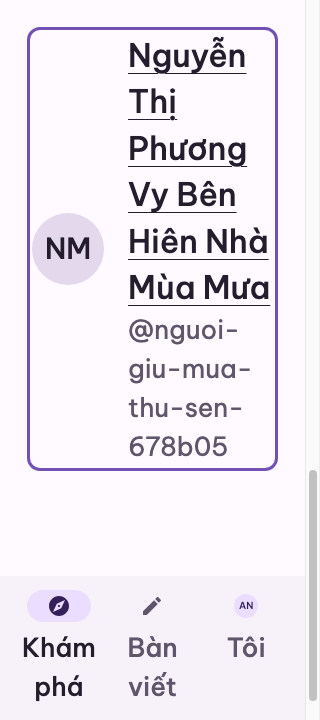
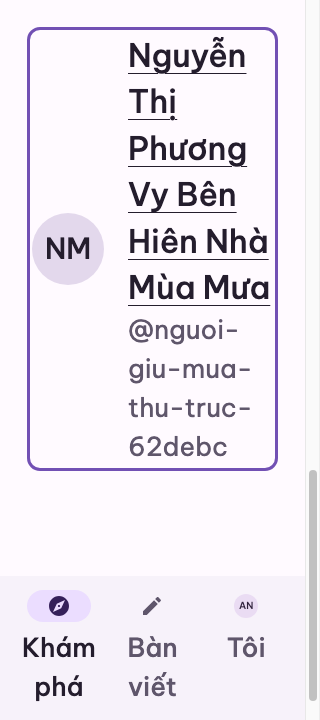
docs(feed): lưu bằng chứng Back sau review
Ghi SHA đã chạy Quick, PostgreSQL full và hai scenario Chrome.
Đính kèm ảnh bút danh dài giữ focus phía trên thanh điều hướng.

Refs: #355

Changed region(s): [[0.4688, 0.55, 0.7812, 0.6417], [0.75, 0.825, 0.7812, 0.8556]]

diff --git a/docs/development/evidence/following-feed-355/README.md b/docs/development/evidence/following-feed-355/README.md
@@ -40,3 +40,21 @@ trên macOS arm64, DPR 1, viewport cao 900 CSS px, App và Identity thật với
 - PASS sau sửa với cargo xtask verify web --scenario password --scenario return-position,
   lượt 1795242508473992000-61815. 19 PNG Feed và manifest. Lượt return-position công khai là đối chứng.
 - Log local, PNG gốc và manifest giữ ở thư mục /private/tmp/vink-355-evidence.OcqmKp0a.
+
+## Bản vá sau review #374
+
+Mã và fixture kiểm tại `1c605cdcb8eb8f4c1cfccb420034bb015d0810a2`, trên cây có `develop@9f68c513b5dae224b6a9f896d04bc9d1d035e1b8`.
+Chrome 158.0.8127.36, PostgreSQL 17.11 scratch, App và Identity thật. Lượt Chrome `1795249910005940000-86397`.
+Hai tab dùng cookie thật qua một lượt A → B → A để giữ nguyên trần đăng nhập của scenario.
+
+| Nghiệm thu và chiều | Kết quả |
+| --- | --- |
+| AC-01 · Functional | PASS. WorkId, ngày công khai lần đầu, thứ tự sau tái đăng, thẻ thể loại và khoảng ngắt thơ được so với fixture PostgreSQL. Smoke byline có đích nhan đề và bút danh độc lập ngay cả khi hai tác giả cùng tên. |
+| AC-02 · Functional | PASS. Khách có đường về Feed, hai trạng thái rỗng có dữ liệu thật, Follow từ kết quả tìm tác giả chưa có bài và mất ACK vẫn đối soát được. Có ca hết phiên, lỗi ở lượt đầu, lỗi append và thử lại. |
+| AC-03 · Interaction | PASS. Back qua document mới sau khi giữ WASM của trang hồ sơ đặt focus vào đúng bút danh trên trang đã tải thêm. Hai entry Feed mở hai Reader trong cùng document, Back về entry cũ đặt focus vào đúng nhan đề. Đổi Follow một tác giả khác giữa hai animation frame hủy focus cũ, lượt đọc kế tiếp tìm lại bài. Response append và Back cũ đều bị loại khi A → B → A. Rút bài hoặc Unfollow về H2, lỗi mạng còn thử lại được. |
+| AC-04 · Geometry, Visual, Accessibility/Responsive | PASS trong Chrome/CDP. Ở 320 × 720 CSS px và chữ 200%, đúng link bút danh đang focus, từ y=32 đến 466,34 px, phía trên thanh dưới bắt đầu tại y=576 px. Tương phản viền focus 5,78:1. Ma trận 320/390 × sáng/tối × 100/200%, rail desktop, ba đích thanh dưới, bàn phím, reduced motion và safe area mô phỏng đều được chạy lại. [Ảnh đã xem](back-byline-320-200.png). |
+
+- `cargo xtask verify web --scenario password --scenario return-position` PASS. Bao gồm Feed với quyền và cookie thật, hành trình bút danh từ thẻ/Reader/nhận xét, và Back của Khám phá công khai. Đây là lượt chọn scenario.
+- `python3.13 ./tools/local-budget run -- cargo xtask verify quick` PASS 13/13.
+- `python3.13 ./tools/local-budget run -- cargo xtask verify postgres` PASS 36/36. Ca HTTP Feed trả đúng trang sâu với dấu khớp credential hiện tại và trả trang đầu khi dùng credential mới của cùng principal. Lane chạy 347 test trên App, Store, Identity và Notifications, cùng kiểm relay qua hai socket, provision và backup/restore. Bảy test đo lường opt-in giữ trạng thái ignored.
+- Log, manifest và PNG gốc của lượt review ở `/private/tmp/vink-355-review.vUzRMgkw`. BFCache hit tự nhiên, bộ gõ hệ điều hành và trình đọc màn hình trên thiết bị là NOT_RUN.
